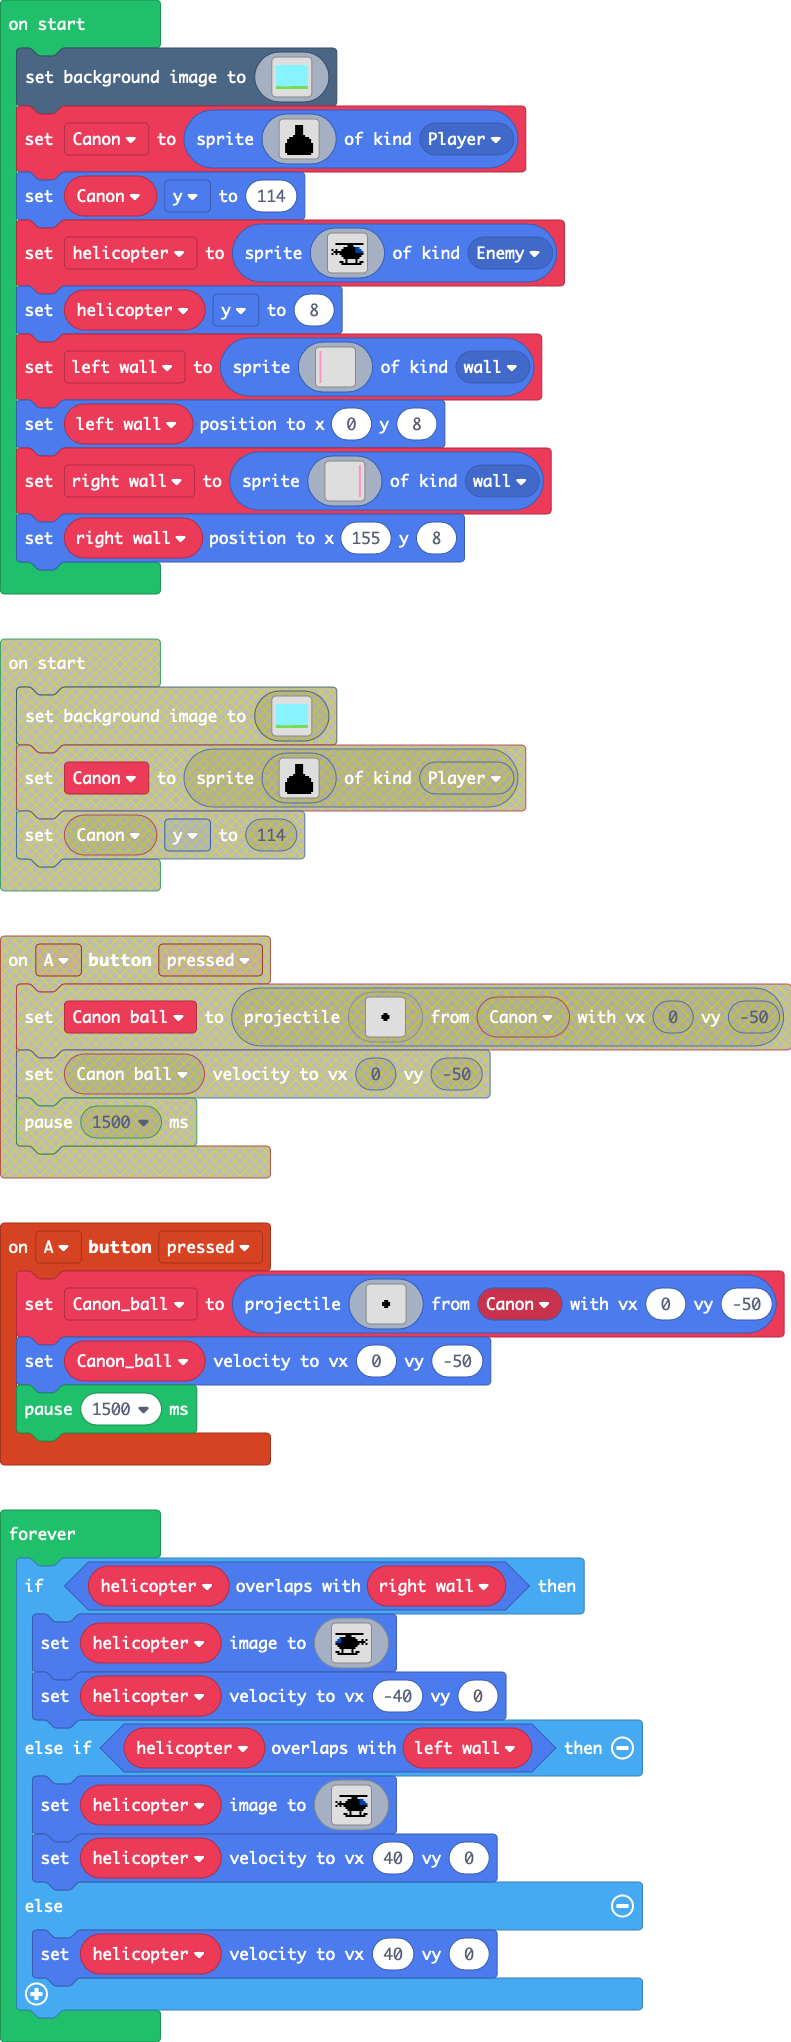
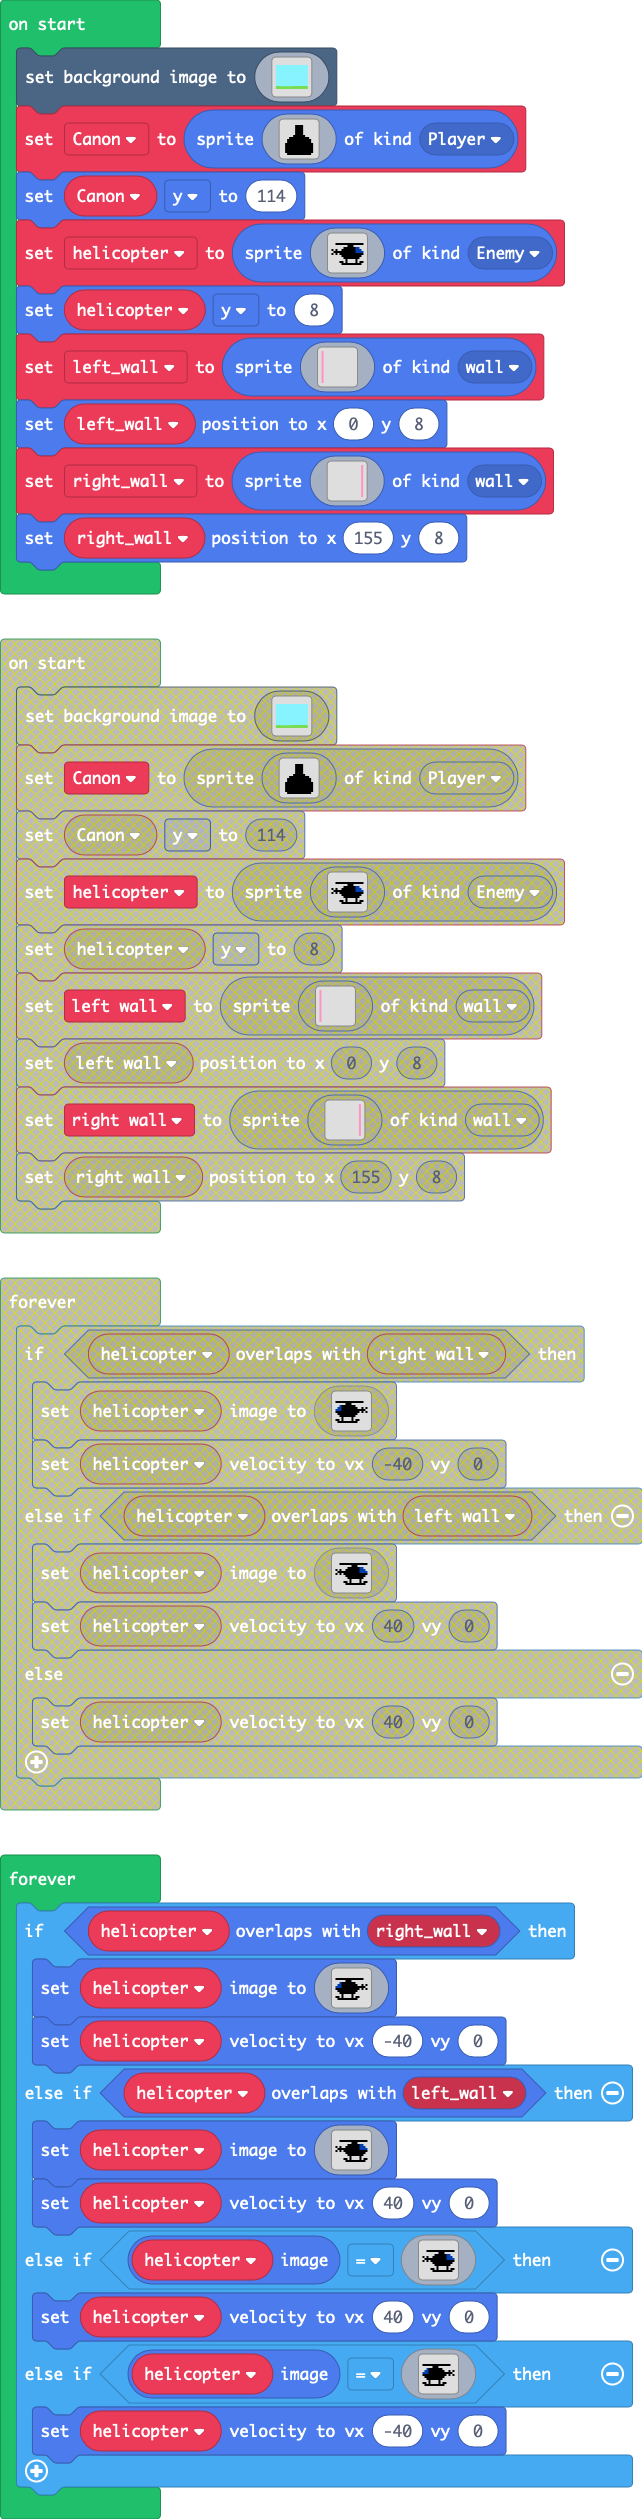
I made a start on fixing the helicopter bug

diff --git a/main.ts b/main.ts
@@ -297,7 +297,43 @@ f . f . f f f f f f f f f f f f
 . . . . . . . . . . . . . . . . 
 `)
         helicopter.setVelocity(40, 0)
-    } else {
+    } else if (helicopter.image == img`
+. . . . . . . . . . . . . . . . 
+. . . . . . . . . . . . . . . . 
+. . . . . . . . . . . . . . . . 
+. . f f f f f f f f f f f f f f 
+. . . . . . . . f f f . . . . . 
+. . . . . . f f f f f f 8 8 . . 
+f . f . . f f f f f f f 8 8 8 . 
+. f f f f f f f f f f f 8 8 8 8 
+f . f . f f f f f f f f f f f f 
+. . . . . f f f f f f f f f f . 
+. . . . . . f f f f f f f f . . 
+. . . . . . . f . . . . f . . . 
+. . . . f f . f . . . . f . f f 
+. . . . . f f f f f f f f f f . 
+. . . . . . . . . . . . . . . . 
+. . . . . . . . . . . . . . . . 
+`) {
         helicopter.setVelocity(40, 0)
+    } else if (helicopter.image == img`
+. . . . . . . . . . . . . . . . 
+. . . . . . . . . . . . . . . . 
+. . . . . . . . . . . . . . . . 
+f f f f f f f f f f f f f f . . 
+. . . . . f f f . . . . . . . . 
+. . 8 f f f f f f f . . . . . . 
+. 8 8 f f f f f f f f . . f . f 
+8 8 8 f f f f f f f f f f f f . 
+f f f f f f f f f f f f . f . f 
+. f f f f f f f f f f . . . . . 
+. . f f f f f f f f . . . . . . 
+. . . f . . . . f . . . . . . . 
+f f . f . . . . f . f f . . . . 
+. f f f f f f f f f f . . . . . 
+. . . . . . . . . . . . . . . . 
+. . . . . . . . . . . . . . . . 
+`) {
+        helicopter.setVelocity(-40, 0)
     }
 })
